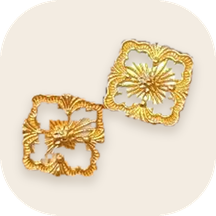
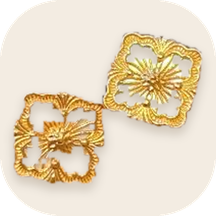
style: 首页分类图放大
- 分类图标 44px → 56px，名称字号 11px → 12px
- 分类卡片内主体占比 80% → 88%，tile.py 支持传入占比

Changed region(s): [[0.0556, 0.1389, 0.9444, 0.8611]]

diff --git a/app/(mall)/page.tsx b/app/(mall)/page.tsx
@@ -155,13 +155,13 @@ export default function HomePage() {
                   >
                     {c.icon ? (
                       // eslint-disable-next-line @next/next/no-img-element
-                      <img src={c.icon} alt="" className="h-11 w-11 rounded-xl" loading="lazy" />
+                      <img src={c.icon} alt="" className="h-14 w-14 rounded-2xl" loading="lazy" />
                     ) : (
-                      <span className="flex h-11 w-11 items-center justify-center rounded-xl bg-gold-50 text-[15px] text-gold-600">
+                      <span className="flex h-14 w-14 items-center justify-center rounded-2xl bg-gold-50 text-[17px] text-gold-600">
                         {c.name.slice(0, 1)}
                       </span>
                     )}
-                    <span className="max-w-full truncate text-[11px] text-neutral-700">{c.name}</span>
+                    <span className="max-w-full truncate text-[12px] text-neutral-700">{c.name}</span>
                   </Link>
                 ))}
               </div>

diff --git a/scripts/category-photo/tile.py b/scripts/category-photo/tile.py
@@ -1,9 +1,10 @@
 import sys
 from PIL import Image, ImageDraw, ImageFilter
-# 用法：python3 tile.py <透明底主体png> <输出png>
-# 216x216（72 的 3 倍），香槟底圆角块，主体居中占约 80%，带很淡的投影
+# 用法：python3 tile.py <透明底主体png> <输出png> [主体占比，默认 0.88]
+# 216x216（72 的 3 倍），香槟底圆角块，主体居中，带很淡的投影
 src, out = sys.argv[1], sys.argv[2]
-W, R, FILL = 216, 60, 0.80
+W, R = 216, 60
+FILL = float(sys.argv[3]) if len(sys.argv) > 3 else 0.88
 SS = 3; N = W * SS
 obj = Image.open(src).convert('RGBA')
 box = int(N * FILL)
